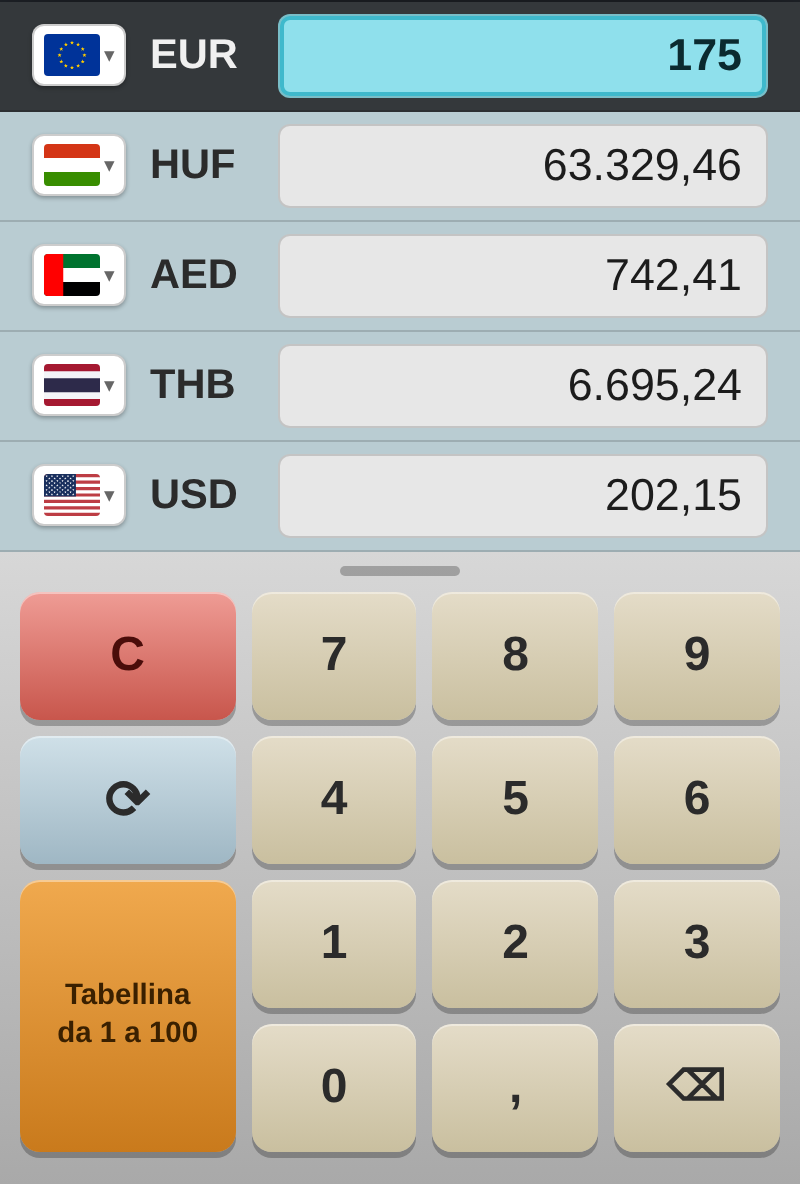
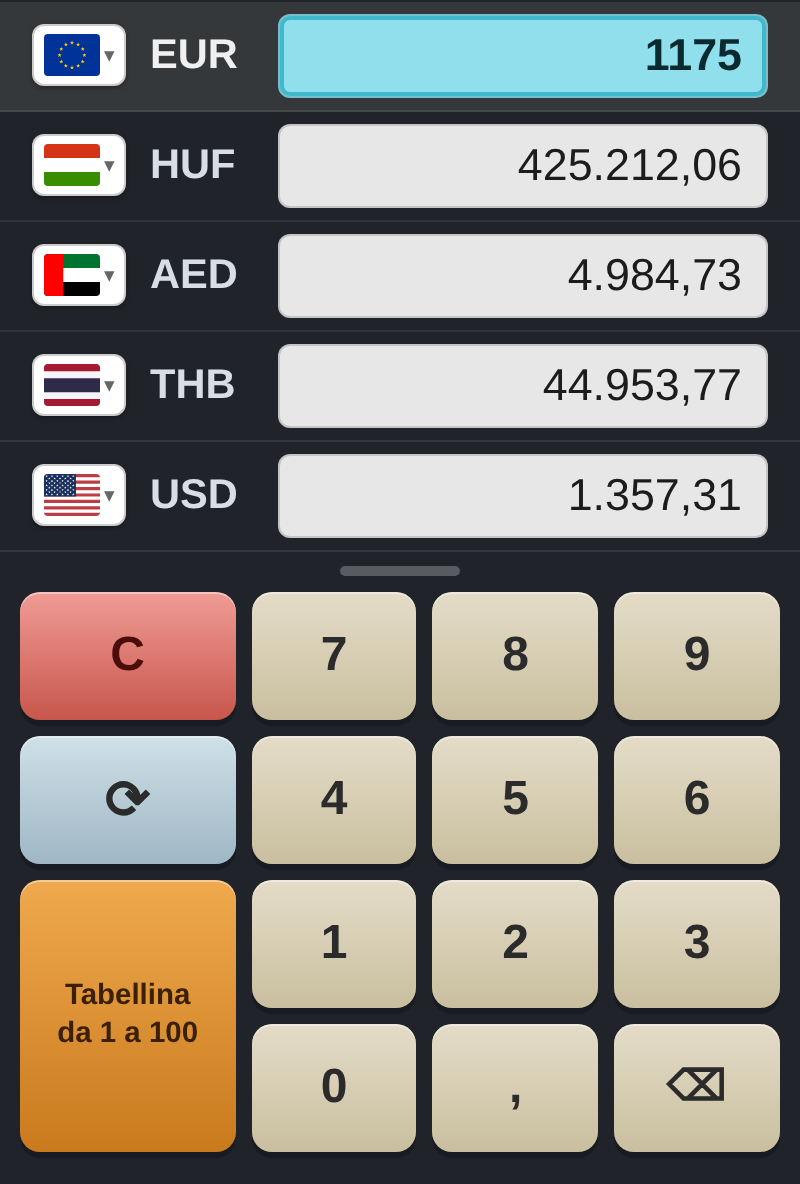
Sfondo bottoniera trasparente e screenshot README aggiornato
Rimosso lo sfondo grigio chiaro della bottoniera numerica, ora
trasparente come le righe valuta. Schiarito il pallino "drag handle"
per restare visibile sul nuovo sfondo scuro. Rigenerato lo screenshot
usato nel README con l'aspetto attuale dell'app.

diff --git a/wwwroot/css/app.css b/wwwroot/css/app.css
@@ -125,7 +125,7 @@ html, body {
 
 .keypad {
     position: relative;
-    background: linear-gradient(180deg, #d7d7d7, #a9a9a9);
+    background: transparent;
     padding: 20px 10px 16px;
     display: grid;
     grid-template-columns: 1.3fr 1fr 1fr 1fr;
@@ -147,7 +147,7 @@ html, body {
     width: 60px;
     height: 5px;
     border-radius: 3px;
-    background: rgba(0, 0, 0, .25);
+    background: rgba(255, 255, 255, .25);
 }
 
 .key {
